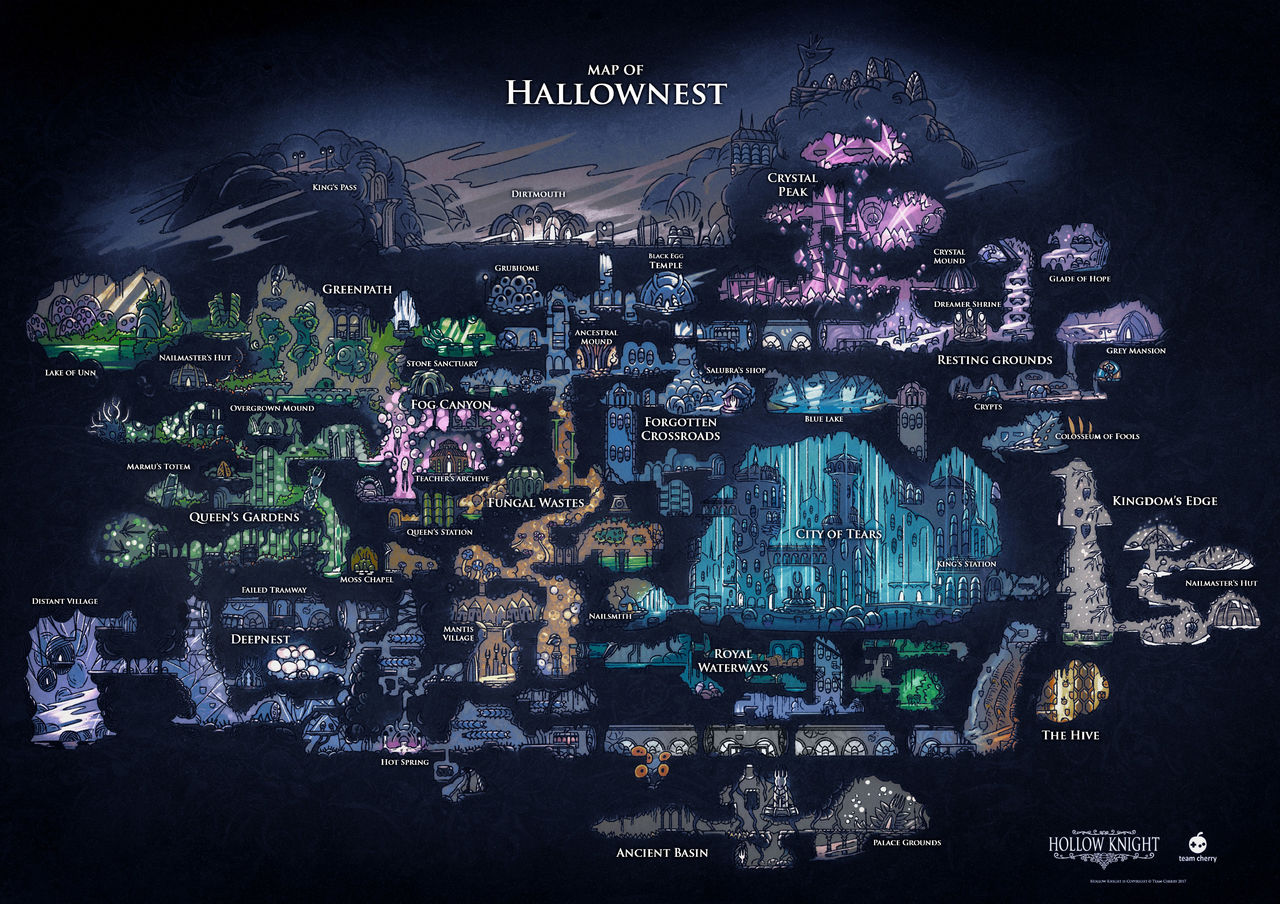
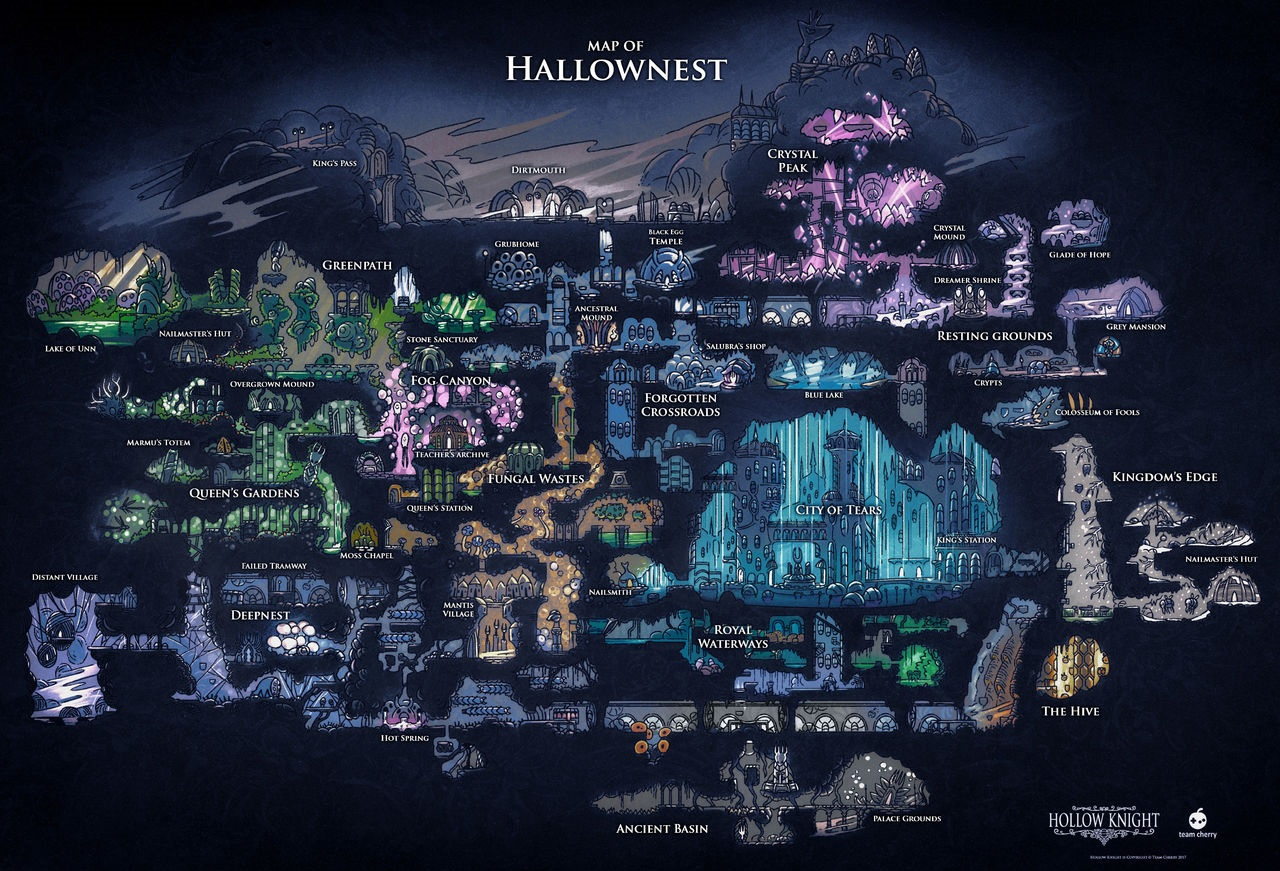
2nd passage added.

diff --git a/histstyle.css b/histstyle.css
@@ -8,23 +8,6 @@
   font-style: normal;
 }
 
-body {
-    font-family: "Perpetua", "Consolas";
-    background: linear-gradient(to bottom, #000000, #0b0b1f);
-    height: 100%;
-    margin: 0;
-    background-repeat: no-repeat;
-    background-attachment: fixed;
-}
-
-.text-glow {
-  color: #fff;
-  text-align: center;
-  -webkit-animation: text-glow ease-in-out infinite alternate;
-  -moz-animation: text-glow 1s ease-in-out infinite alternate;
-  animation: text-glow 1s ease-in-out infinite alternate;
-}
-
 @-webkit-keyframes text-glow {
     from {
         text-shadow: 0 0 1px #fff, 0 0 1px #fff, 0 0 1px #fff, 0 0 1px #fff, 0 0 1px #fff, 0 0 1px #fff, 0 0 1px #fff;
@@ -43,6 +26,23 @@ body {
     }
 }
 
+body {
+    font-family: "Perpetua", "Consolas";
+    background: linear-gradient(to bottom, #000000, #0b0b1f);
+    height: 100%;
+    margin: 0;
+    background-repeat: no-repeat;
+    background-attachment: fixed;
+}
+
+.text-glow {
+  color: #fff;
+  text-align: center;
+  -webkit-animation: text-glow ease-in-out infinite alternate;
+  -moz-animation: text-glow 1s ease-in-out infinite alternate;
+  animation: text-glow 1s ease-in-out infinite alternate;
+}
+
 div {
     color: white;
 }
@@ -50,6 +50,7 @@ div {
 div.label {
     font-size: 60px;
     margin: 30px;
+    margin-bottom: 10px;
 }
 
 .passage {
@@ -58,43 +59,43 @@ div.label {
     display: flex;
     flex-direction: row;
     justify-content: center;
-}
-
-div.description > p {
-    font-size: 32px;
-    margin: 30px;
-    margin-top: 50px;
-    padding: 20px;
-    text-align: justify;
+    align-items: center;
 }
 
 div.description > img {
     height: 70%;
     width: 70%;
-    transition-property: width;
 }
 
-img:hover {
-    width: 20%;
+div.description > p {
+    font-size: 32px;
+    text-align: center;
+    margin: 30px;
+    margin-top: 50px;
+    padding: 20px;
 }
 
-img.left {
-    margin-left: 40px;
+.left > img {
+    margin-left: 60px;
     float: left;
 }
 
-img.right {
-    margin-right: 40px;
+.right > img {
+    margin-right: 60px;
     float: right;
 }
 
 div.map {
+    display: flex;
+    flex-direction: row;
+    justify-content: center;
     text-align: center;
 }
 
 div.map > img {
     box-shadow: 0 0 10px 10px rgba(2, 2, 11, 0.7);
     width: 80%;
+    height: 80%;
     border: 1px solid rgba(0, 0, 0, 0.3);
     border-radius: 90px;
 }

diff --git a/history.html b/history.html
@@ -9,19 +9,18 @@
         <div class="label text-glow">
             History of Hallownest
         </div>
-        <br>
         <div class="map">
-            <img src="./images/map.jpg" alt="">
+            <img src="./images/map.jpg" alt="Map of the Hallownest Kingdom">
         </div>
         <br>
-        <div class="passage description text-glow">
+        <div class="passage description text-glow right">
             <p>Once a prosperous kingdom, Hallownest has been reduced to ruins, with the majority of its population dead, missing, or overcome by the Infection. At the surface stands the small village of Dirtmouth, whence the last of the civilised bugs were eventually drawn into the depths of the kingdom. Elderbug tells the tragic tale of the town and of the many adventurers before the player.</p>
-            <img class="right" src="./images/knight.png" alt="">
+            <img src="./images/knight.png" alt="The Hollow Knight">
         </div>
         <br>
-        <div class="passage description text-glow">
-            <img class="left" src="./images/knight.png" alt="">
-            <p>Once a prosperous kingdom, Hallownest has been reduced to ruins, with the majority of its population dead, missing, or overcome by the Infection. At the surface stands the small village of Dirtmouth, whence the last of the civilised bugs were eventually drawn into the depths of the kingdom. Elderbug tells the tragic tale of the town and of the many adventurers before the player.</p>
+        <div class="passage description text-glow left">
+            <img src="./images/pale-king.png" alt="Pale King">
+            <p>Sometime in the past, an Old Light - the Radiance - ruled over a majority of the land with her loyal worshipers and creations, the Moths. However, another Pale Light appeared in the world, forming from the death of a powerful being known as a Wyrm. This new light adopted the title of The Pale King. He then founded the Kingdom of Hallownest and granted consciousness to those under the Radiance's rule. The bugs forsook the light that they had once obeyed and slowly forgot it. Even the Radiance's ardent tribe turned their backs on her in favour of this new ruler.</p>
         </div>
     </body>
 </html>
